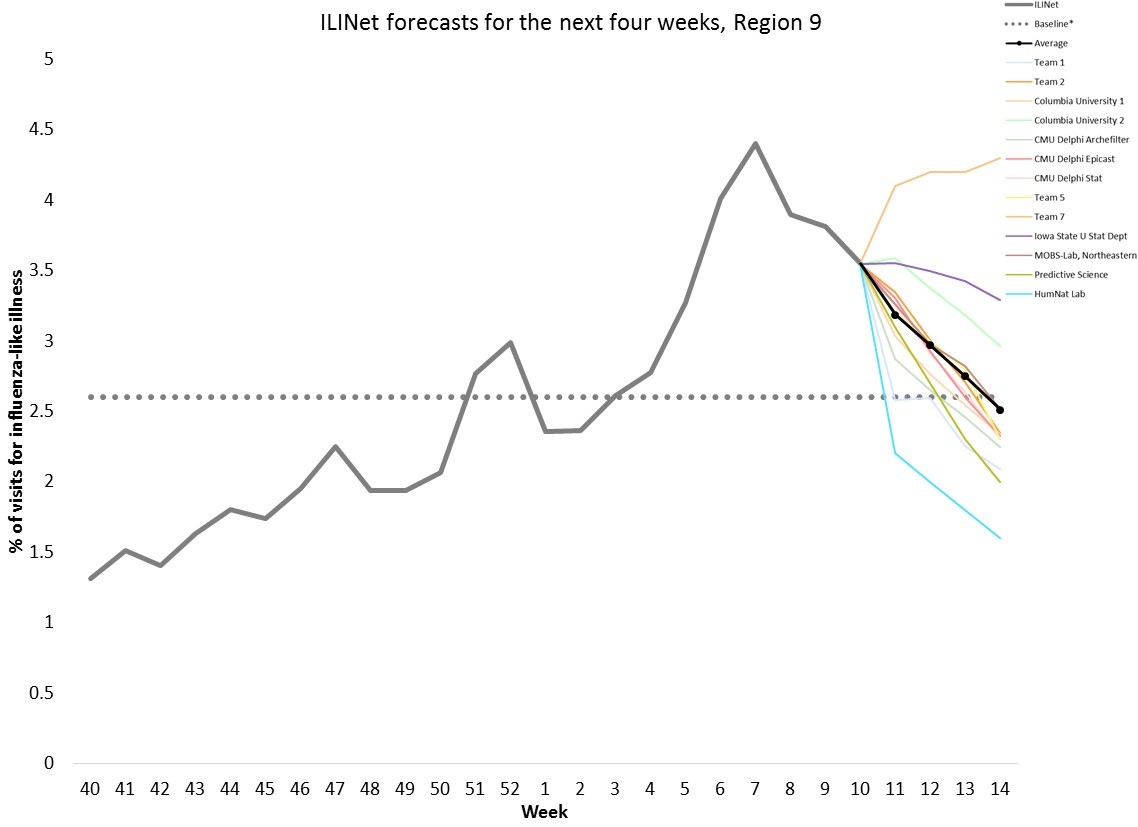
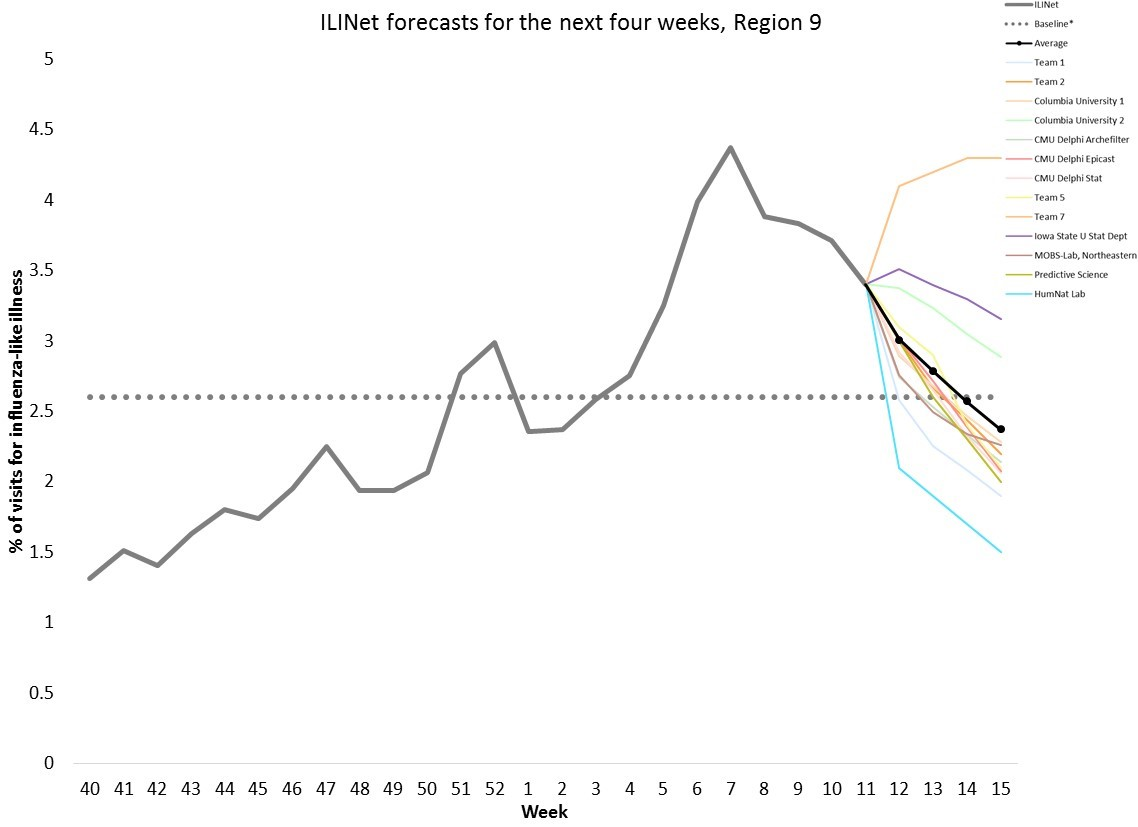
update Mar 29

diff --git a/flu/forecasts.html b/flu/forecasts.html
@@ -97,7 +97,7 @@
    <div class="row col-xs-12" style="height:10px;"></div>
 </div>-->
 <div class="row">
-   <div><h5>Last update: March 22, 2016</h5></div>
+   <div><h5>Last update: March 29, 2016</h5></div>
 </div>
 
 <ul class="nav nav-tabs nav-justified">
